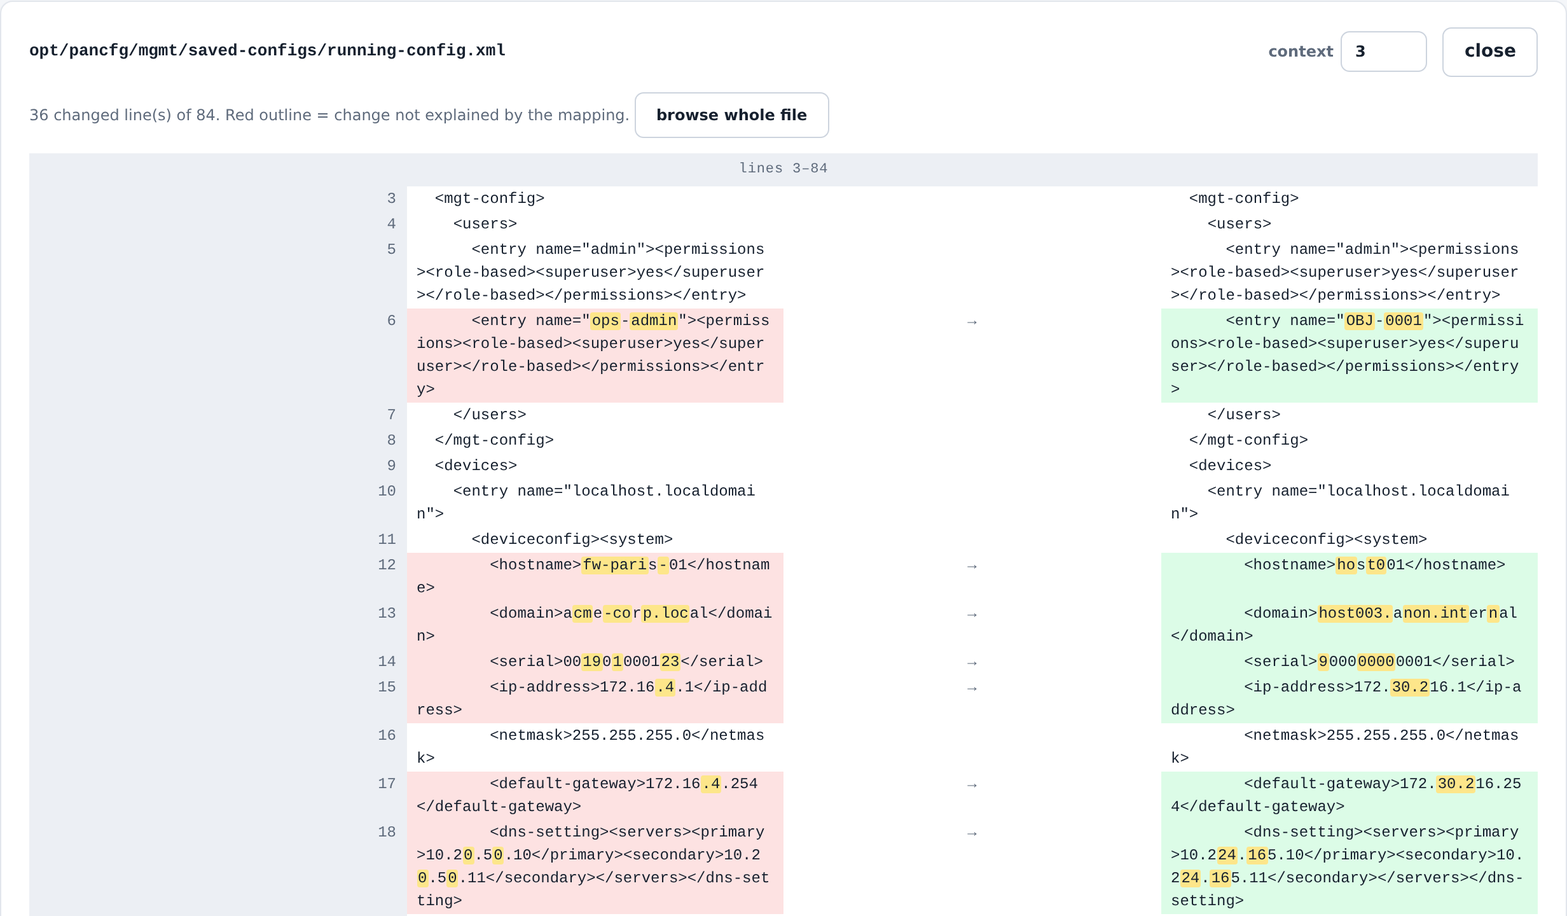
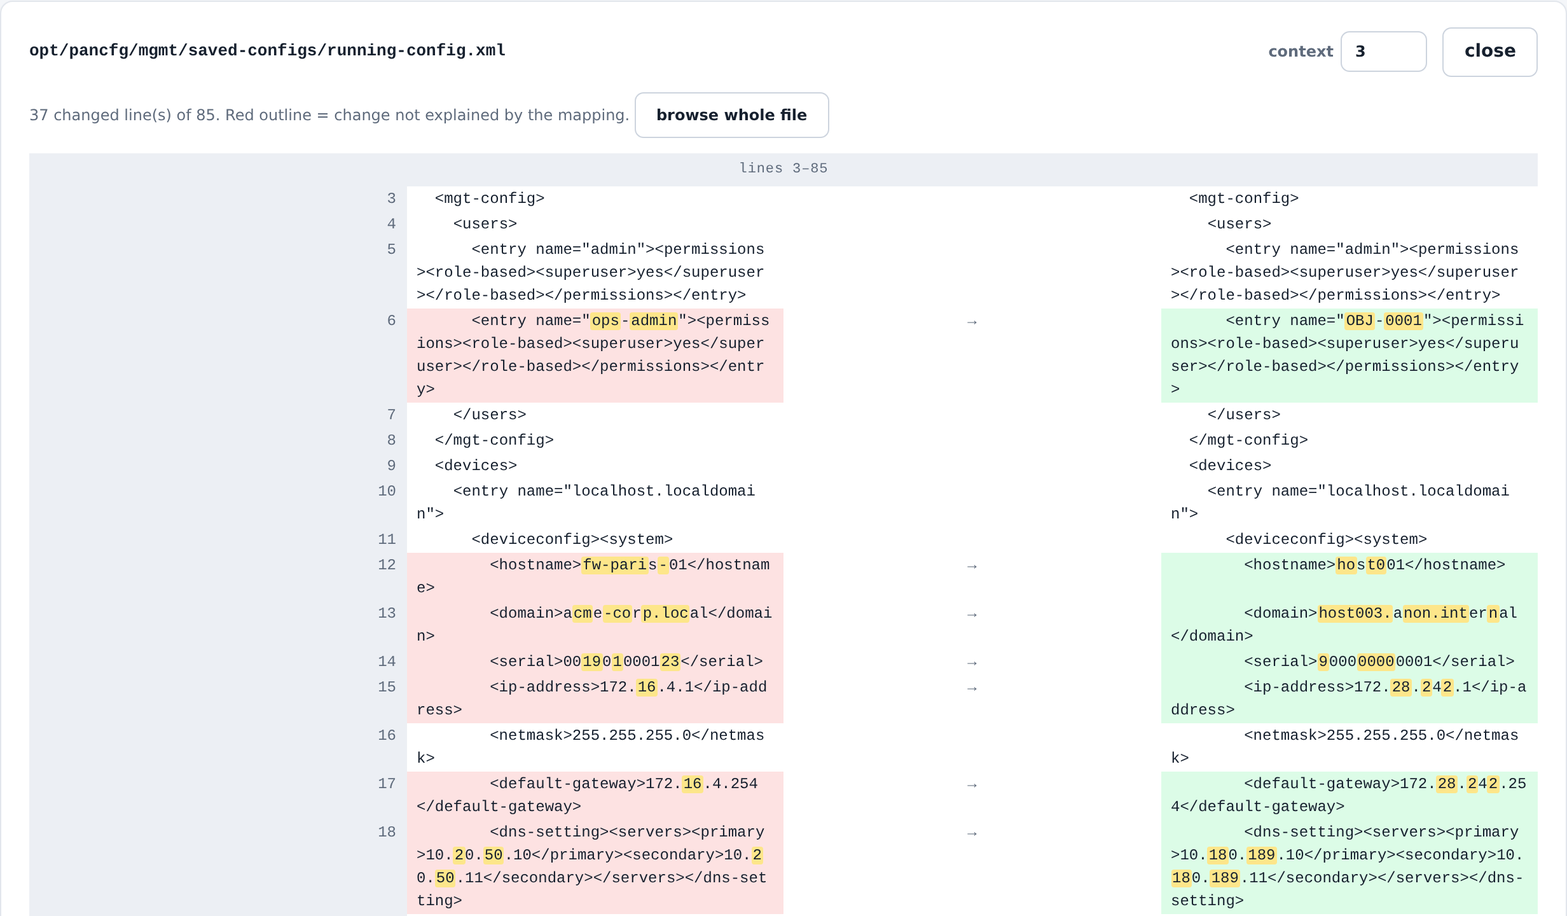
feat(core,compare): unified prefix-preserving tree over public IP space (#24)
## Why

Private (RFC 1918/CGNAT) prefix preservation was verified correct on the
real corpus; public space was not. A public IP mapped to 240/4 as a
20-bit /24 index in first-seen order plus an arbitrary per-/24 host
permutation, and the audit (2026-09-06, real corpus) measured the
consequences:

- the default route's nexthop left its own connected WAN /30 on the
anonymized copy (broken on both boxes tested) — the routing→zone story
is incoherent at the firewall edge;
- cross-/24 aggregate containment lost: 120 of 246 route-containment
relations on one box — BGP/OSPF aggregates no longer contained their
members.

## What

- **`Anonymizer._tree_fake` public branch**: one catch-all keyed-PRF
tree over 240.0.0.0/4. The real top nibble is folded into the PRF path
seed (`P<nibble>`, not kept in the output); bits 4..31 — host octet
included — are tree-flipped walking the real bits. Two reals sharing a
k-bit prefix (k ≥ 4) share the fake prefix to depth k: WAN /30 nexthops,
/16 aggregates ⊇ /24s, prefixes announced mid-log all survive; masks
never change; fakes stay in 240/4 (never a real third party).
Cross-nibble collisions are birthday-random over 28 bits (~zero at TSF
scale; naive nibble truncation measured 88/1526 systematic /24
collisions on one real box).
- **Anti-reuse probe** now skips `.0`/`.255` candidates (it once handed
a demo a host on the broadcast address).
- **Dead machinery deleted**: `_pub24`, `_pub24_next`,
[…]

diff --git a/tsf_anonymizer/core.py b/tsf_anonymizer/core.py
@@ -653,9 +653,6 @@ class Anonymizer:
         # addresses both archives happen to share.
         self.ip_seed: bytes = secrets.token_bytes(16)
         self._flip_cache: dict[str, int] = {}
-        self._pub24: dict[int, int] = {}       # real /24 (int >> 8) -> fake /24 index
-        self._pub24_next = 0
-        self._pub_perm_cache: dict[int, list[int]] = {}
 
         self._ip_re = _IP_RE
         self._user_re = _USER_PHRASE_RE
@@ -673,16 +670,6 @@ class Anonymizer:
             self._flip_cache[path] = f
         return f
 
-    def _pub_host_perm(self, p24: int) -> list[int]:
-        """Deterministic host-octet permutation for one public /24 (pure
-        function of the seed — no random module, stable across versions)."""
-        perm = self._pub_perm_cache.get(p24)
-        if perm is None:
-            perm = sorted(range(256), key=lambda v: hashlib.blake2b(
-                b"%d:%d" % (p24, v), key=self.ip_seed, digest_size=8).digest())
-            self._pub_perm_cache[p24] = perm
-        return perm
-
     def _tree_fake(self, a: int) -> str:
         """Prefix-preserving pseudonym: same real prefix -> same fake prefix,
         so subnets, route destinations (static or learned mid-log), LSDB
@@ -694,9 +681,20 @@ class Anonymizer:
         PRF per tree node (the root node is always flipped, so an address
         never maps to itself), the host octet is kept — /25…/32 relations
         are exact, /8…/24 relations survive the permutation. Every other
-        address maps into 240.0.0.0/4 (class E — never routable, never a
-        real third party): one fake /24 per real /24 in first-seen order,
-        host octet permuted per /24."""
+        address goes through one catch-all tree into 240.0.0.0/4 (class E —
+        never routable, never a real third party): the real top nibble is
+        folded into the PRF path seed (not kept in the output) and bits
+        4..31 — host octet included — are each tree-flipped walking the real
+        bits, so two reals sharing a k-bit prefix (k >= 4) share the fake
+        prefix to depth k: WAN /30 nexthops, /16 aggregates over their /24s,
+        prefixes announced mid-log by BGP/OSPF all stay coherent, and masks
+        never change. Cross-nibble reals share no prefix >= /4 (nothing to
+        preserve) and decorrelate through the path seed, so a repeated fake
+        is birthday-random over 28 bits (~zero at TSF scale; naive nibble
+        truncation measured 88/1526 systematic /24 collisions on one real
+        box) — the anti-reuse probe in anon_ip absorbs the rare rest. A fake
+        can never equal its own original: originals inside 240/4 are
+        `is_reserved` and skipped by anon_ip before reaching the tree."""
         for prefix, plen in _TREE_CLASSES:
             if a >> (32 - plen) == prefix:
                 out = prefix << (32 - plen)
@@ -707,14 +705,13 @@ class Anonymizer:
                     out |= (real ^ flip) << (31 - bit)
                     path += "01"[real]
                 return str(ipaddress.ip_address(out | (a & 0xFF)))
-        p24 = a >> 8
-        idx = self._pub24.get(p24)
-        if idx is None:
-            idx = self._pub24_next
-            self._pub24[p24] = idx
-            self._pub24_next += 1
-        host = self._pub_host_perm(p24)[a & 0xFF]
-        return str(ipaddress.ip_address(0xF0000000 | ((idx & 0x000F_FFFF) << 8) | host))
+        out = 0xF000_0000
+        path = f"P{a >> 28}"
+        for bit in range(4, 32):
+            real = (a >> (31 - bit)) & 1
+            out |= (real ^ self._flip(path)) << (31 - bit)
+            path += "01"[real]
+        return str(ipaddress.ip_address(out))
 
     # Last-resort sequential generators — used only when the prefix tree's
     # /24 probe finds no free host (see anon_ip); injective by construction.
@@ -769,7 +766,12 @@ class Anonymizer:
             if fake in self.ip_map or fake in self._fakes:
                 base = int(ipaddress.ip_address(fake))
                 for step in range(1, 256):
-                    cand = str(ipaddress.ip_address((base & ~0xFF) | ((base + step) & 0xFF)))
+                    host = (base + step) & 0xFF
+                    if host in (0, 255):
+                        # never hand out .0/.255: a probed host on the
+                        # network/broadcast address reads as nonsense
+                        continue
+                    cand = str(ipaddress.ip_address((base & ~0xFF) | host))
                     if cand not in self.ip_map and cand not in self._fakes:
                         fake = cand
                         break
@@ -1261,18 +1263,12 @@ class Anonymizer:
                 anon.ip_seed = bytes.fromhex(seed)
             except ValueError:
                 pass  # unusable seed: keep the fresh one, pairs still apply
-        # Rebuild the public /24 allocation from the pairs so a new address
-        # in a known real /24 lands in the same fake /24.
-        for orig, fake in anon.ip_map.items():
-            try:
-                fi = int(ipaddress.ip_address(fake))
-                oi = int(ipaddress.ip_address(orig))
-            except ValueError:
-                continue
-            if fi >> 28 == 0xF:
-                idx = (fi >> 8) & 0x000F_FFFF
-                anon._pub24.setdefault(oi >> 8, idx)
-                anon._pub24_next = max(anon._pub24_next, idx + 1)
+        # Explicit pairs stay authoritative (anon_ip consults ip_map first);
+        # a *new* public address is allocated by the catch-all tree, which
+        # only needs `ip_seed` — same seed, same fake prefix, so it lands in
+        # the fake subnet its known neighbours got. A mapping written by the
+        # old per-/24 scheme keeps its pairs verbatim; only new allocations
+        # use the tree (the anti-reuse probe keeps the union injective).
         anon._priv_counter = sum(1 for v in anon.ip_map.values() if v.startswith("100."))
         anon._pub_counter = len(anon.ip_map) - anon._priv_counter
         anon._user_counter = len(anon.user_map)

diff --git a/tests/test_core.py b/tests/test_core.py
@@ -530,6 +530,61 @@ class TestRealTsfLessons:
             by24.setdefault(ip.rsplit(".", 1)[0], set()).add(f.rsplit(".", 1)[0])
         assert all(len(s) == 1 for s in by24.values())
 
+    def test_public_fakes_preserve_shared_prefixes_at_every_depth(self, anon):
+        # Audit lesson (real corpus, 2026-09): per-/24 grouping with a host
+        # permutation broke the default route's nexthop out of its connected
+        # WAN /30 and lost 120 of 246 cross-/24 aggregate containments on one
+        # box. The catch-all tree preserves every same-nibble relation /4../32.
+        import ipaddress
+        def shared(x: str, y: str) -> int:
+            d = (int(ipaddress.ip_address(anon.anon_ip(x)))
+                 ^ int(ipaddress.ip_address(anon.anon_ip(y))))
+            return 32 - d.bit_length()
+        assert shared("203.0.113.129", "203.0.113.130") >= 30  # WAN /30 intra-host
+        assert shared("198.18.100.7", "198.18.0.0") >= 16      # /16 aggregate ⊇ /24
+        assert shared("198.18.1.2", "198.19.200.9") >= 15      # high in the tree too
+        assert anon.anon_ip("203.0.113.129") != anon.anon_ip("203.0.113.130")
+
+    def test_public_aggregate_still_contains_its_members(self, anon):
+        # The relation check_routing_coherence re-derives: a /16 RIB row must
+        # still contain its observed /24 rows and the nexthop on the copy.
+        import ipaddress
+        agg = ipaddress.ip_network(anon.anon_ip("198.18.0.0") + "/16", strict=False)
+        member = ipaddress.ip_network(anon.anon_ip("198.18.44.0") + "/24", strict=False)
+        assert member.subnet_of(agg)
+        assert ipaddress.ip_address(anon.anon_ip("198.18.7.9")) in agg
+
+    def test_different_top_nibbles_decorrelate(self, anon):
+        # Naive nibble truncation measured 88/1526 systematic /24 collisions
+        # on one real box; with the nibble folded into the PRF path seed,
+        # same-tail reals from different nibbles land in unrelated fakes.
+        fakes = [anon.anon_ip(f"{a}.77.66.55")
+                 for a in (1, 25, 42, 60, 77, 99, 130, 150, 170, 199, 210)]
+        assert len(set(fakes)) == len(fakes)
+        assert len({f.rsplit(".", 1)[0] for f in fakes}) == len(fakes)
+
+    def test_mixed_fakes_are_injective_at_a_few_thousand_ips(self, anon):
+        ips = [f"10.20.{(i >> 8) & 255}.{i & 255}" for i in range(1, 1200)]
+        ips += [f"{o}.{(i >> 4) & 255}.{i & 255}.{(i * 7) % 256}"
+                for o in (8, 23, 44, 61, 77, 91, 104, 121, 130, 147, 166, 181, 198, 203)
+                for i in range(200)]
+        uniq = list(dict.fromkeys(ips))
+        fakes = [anon.anon_ip(ip) for ip in uniq]
+        assert len(set(fakes)) == len(fakes) == len(uniq)
+
+    def test_probe_never_hands_out_network_or_broadcast_hosts(self, anon):
+        # The anti-reuse probe once handed out a .255 in a demo — a host on
+        # the broadcast address. It now skips .0 and .255 candidates.
+        import ipaddress
+        taken = anon._tree_fake(int(ipaddress.ip_address("8.8.8.8")))
+        base = int(ipaddress.ip_address(taken)) & ~0xFF
+        # every host of the fake /24 is taken except .0, .255 and .37
+        # (the tree fake itself included: its host octet can be anything)
+        anon._fakes.add(taken)
+        anon._fakes.update(str(ipaddress.ip_address(base | h))
+                           for h in range(1, 255) if h != 37)
+        assert anon.anon_ip("8.8.8.8") == str(ipaddress.ip_address(base | 37))
+
     def test_route_destination_still_contains_its_hosts(self, anon):
         import ipaddress
         out = anon.anonymize_text("route 10.20.0.0/16 nexthop 10.20.0.1 host 10.20.5.9")

diff --git a/tsf_anonymizer/mock.py b/tsf_anonymizer/mock.py
@@ -84,12 +84,13 @@ _CONFIG = """<?xml version="1.0"?>
         <interface><ethernet>
           <entry name="ethernet1/1"><layer3><ip><entry name="10.20.30.1/24"/></ip></layer3></entry>
           <entry name="ethernet1/2"><layer3><ip><entry name="10.20.40.1/24"/></ip></layer3></entry>
+          <entry name="ethernet1/3"><layer3><ip><entry name="198.18.100.1/30"/></ip></layer3></entry>
         </ethernet></interface>
         <virtual-router>
           <entry name="VR-Main">
-            <interface><member>ethernet1/1</member><member>ethernet1/2</member></interface>
+            <interface><member>ethernet1/1</member><member>ethernet1/2</member><member>ethernet1/3</member></interface>
             <routing-table><ip><static-route>
-              <entry name="SR-Default"><destination>0.0.0.0/0</destination><nexthop><ip-address>10.20.30.254</ip-address></nexthop><interface>ethernet1/1</interface><metric>10</metric></entry>
+              <entry name="SR-Default"><destination>0.0.0.0/0</destination><nexthop><ip-address>198.18.100.2</ip-address></nexthop><interface>ethernet1/3</interface><metric>10</metric></entry>
               <entry name="SR-Branch-Lyon"><destination>10.99.0.0/16</destination><nexthop><ip-address>10.20.40.254</ip-address></nexthop><interface>ethernet1/2</interface><metric>10</metric></entry>
             </static-route></ip></routing-table>
           </entry>
@@ -144,14 +145,18 @@ uptime: 42 days, 3:17:09
 name                    id    speed/duplex/state        mac address
 ethernet1/1             16    1000/full/up              00:1b:17:00:00:10
 ethernet1/2             17    1000/full/up              00:1b:17:00:00:11
+ethernet1/3             18    1000/full/up              00:1b:17:00:00:12
 > show routing route
 flags: A:active, C:connect, S:static, O:ospf, B:bgp, Oi:ospf intra-area
 destination        nexthop            metric flags     age   interface
-0.0.0.0/0          10.20.30.254       10     A S             ethernet1/1
+0.0.0.0/0          198.18.100.2       10     A S             ethernet1/3
 10.20.30.0/24      10.20.30.1         0      A C             ethernet1/1
 10.20.40.0/24      10.20.40.1         0      A C             ethernet1/2
 10.99.5.0/24       10.20.40.77        30     A Oi      2036  ethernet1/2
+198.18.0.0/16      198.18.100.2       20     A B       412   ethernet1/3
 198.18.9.0/24      198.18.7.7         20     A B       387   ethernet1/1
+198.18.44.0/24     198.18.100.2       20     A B       401   ethernet1/3
+198.18.100.0/30    198.18.100.1       0      A C             ethernet1/3
 > show advanced-routing route
 Logical Router: LR-Edge
 flags: A:active, E:ecmp

diff --git a/tsf_anonymizer/compare.py b/tsf_anonymizer/compare.py
@@ -716,9 +716,11 @@ _PRESERVED_SPACES = tuple(ipaddress.ip_network(c) for c in (
 
 
 def _in_preserved(net) -> bool:
-    """Prefix preservation is guaranteed for RFC 1918/CGNAT only; public
-    space keeps /24 grouping but not aggregation (documented). A relation is
-    load-bearing for the check iff every network involved is private."""
+    """Prefix preservation is *guaranteed* for RFC 1918/CGNAT only: a
+    relation is a hard error iff every network involved is private. Public
+    space is prefix-preserved too (same-nibble relations to any depth), but
+    the rare anti-reuse probe or generator fallback may move one address —
+    a public divergence is counted and shown, never an error."""
     return net.version == 4 and any(net.subnet_of(p) for p in _PRESERVED_SPACES)
 
 
@@ -857,9 +859,11 @@ def check_routing_coherence(orig_dir: Path, anon_dir: Path) -> dict:
             if bad:
                 mismatches.append(f"{bad} {label} relation(s) hold on one side only")
     out["mismatches"] = mismatches
-    # Public aggregation (anything beyond the per-/24 grouping) is the
-    # documented trade of mapping public space into 240/4: counted, shown,
-    # but not an error — private structure is the guarantee.
+    # Public relations are preserved by the catch-all tree too, so this is
+    # expected to be ~0; what remains is the rare anti-reuse probe or
+    # generator fallback moving one address — counted, shown, but not an
+    # error, so a rarity never reddens a real compare. Private structure
+    # stays the hard guarantee.
     out["public_divergences"] = public
     out["ok"] = not mismatches
     return out

diff --git a/tests/test_compare.py b/tests/test_compare.py
@@ -285,7 +285,11 @@ class TestRoutingCoherence:
         work, mapping = trees
         r = compare_trees(work / "orig", work / "anon", mapping).summary["routing"]
         assert r["checked"] and r["ok"]
-        assert r["routes"] >= 5 and r["connected"] >= 2
+        assert r["routes"] >= 8 and r["connected"] >= 3
+        # The catch-all public tree preserves the WAN /30 nexthop and the
+        # /16 aggregate over its /24s: zero public divergences expected —
+        # only the rare anti-reuse probe / generator fallback could count.
+        assert r["public_divergences"] == 0
 
     def test_a_nexthop_moved_out_of_its_subnet_is_reported(self, trees):
         work, mapping = trees

diff --git a/.claude/rules/anonymizer-invariants.md b/.claude/rules/anonymizer-invariants.md
@@ -164,22 +164,43 @@ test in `tests/` and a line under *Unreleased* in CHANGELOG.md.
   (`ip_seed` rides in the sidecar). RFC 1918/CGNAT addresses stay in their
   own class with the host octet kept (root tree node always flipped: an
   address never maps to itself — 45 identity mappings appeared on the
-  corpus before that rule); everything else maps into 240.0.0.0/4, one fake
-  /24 per real /24. The trade: a private fake can equal an address the
-  customer also uses elsewhere (0.12 % measured on 196 730 corpus IPs) —
-  reported by the compare as a *collision*, and collision keys are still
-  **applied** by `MappingIndex.apply` (the anonymizer did rewrite them);
-  they are only excluded from the leak scan, where the same string is
-  somebody's pseudonym. Dropping them from `forward`, the first design,
-  made every occurrence of such a key an "unexplained" line.
-- **The routing check trusts private relations only, and reads the right
-  config.** Public space keeps /24 grouping, not aggregation — a public /16
-  ⊃ /24 relation is a counted *divergence*, never an error, or every real
-  compare is red with the documented trade. `.merged-running-config.xml`
-  wins over `running-config.xml` (a Panorama-managed PA-5410 ships an empty
-  `<interface>` section — 0 connected networks found), and C-flagged RIB
-  rows are connected networks too. Containment is compared as per-network
-  ancestor sets, not O(n²) pairs — a real RIB has 6 903 rows.
+  corpus before that rule). Everything else goes through one catch-all tree
+  into 240.0.0.0/4: the real top nibble is folded into the PRF *path seed*
+  (`P<nibble>`, not kept in the output) and bits 4..31 — host octet
+  included — are tree-flipped walking the real bits, so two reals sharing a
+  k-bit prefix (k ≥ 4) share the fake prefix to depth k. The previous
+  scheme (one fake /24 per real /24 in first-seen order, host octet
+  permuted per /24) broke every intra-/24 and cross-/24 public relation on
+  real archives: the default route's nexthop left its own connected WAN /30
+  on both boxes measured, and 120 of 246 route-containment relations
+  (BGP/OSPF aggregates ⊇ members) were lost on one. Cross-nibble reals
+  share no prefix ≥ /4, so there is nothing to preserve there — the nibble
+  in the path makes their fakes birthday-random over 28 bits (~zero
+  collisions at TSF scale; naive nibble *truncation* measured 88/1526
+  systematic /24 collisions on one real box), and the anti-reuse probe in
+  `anon_ip` absorbs the rare rest — probed candidates skip host octets 0
+  and 255 (it once handed a demo a host on the broadcast address). A fake
+  can never equal its own original: originals inside 240/4 are
+  `is_reserved` and skipped by `anon_ip`. The trade that remains: a private
+  fake can equal an address the customer also uses elsewhere (0.12 %
+  measured on 196 730 corpus IPs) — reported by the compare as a
+  *collision*, and collision keys are still **applied** by
+  `MappingIndex.apply` (the anonymizer did rewrite them); they are only
+  excluded from the leak scan, where the same string is somebody's
+  pseudonym. Dropping them from `forward`, the first design, made every
+  occurrence of such a key an "unexplained" line.
+- **The routing check errors on private relations only, and reads the right
+  config.** Public relations are preserved by the catch-all tree too, so
+  `public_divergences` is expected ≈ 0 — but a public divergence stays a
+  counted number, never a hard error: what remains of it is the rare
+  anti-reuse probe or generator fallback moving one address, and a rarity
+  must not redden a real compare (measured after the tree landed: 0 / 0 / 0
+  divergences on three real trees that showed 101 / 5 / 0 under the /24
+  grouping). `.merged-running-config.xml` wins over `running-config.xml`
+  (a Panorama-managed PA-5410 ships an empty `<interface>` section — 0
+  connected networks found), and C-flagged RIB rows are connected networks
+  too. Containment is compared as per-network ancestor sets, not O(n²)
+  pairs — a real RIB has 6 903 rows.
 - **The compare checks routing coherence structurally.** `_routing_view`
   re-derives from each tree alone (config layer3 networks, static routes,
   both RIB formats) the relations the prefix tree exists to preserve, and

diff --git a/docs/architecture.md b/docs/architecture.md
@@ -87,7 +87,7 @@ members through the same frozen tables, file names only, never directories.
 | class | original | pseudonym | shaped so that |
 |---|---|---|---|
 | private IPv4 | `10.1.2.3` | `10.x.y.3` | same class + host octet kept: prefix-preserving (keyed PRF tree, `ip_seed` in the sidecar), so subnets and routes stay coherent |
-| public IPv4 | `8.8.8.8` | `240.x.y.z` | class E — never routable, never a real third party; one fake /24 per real /24 |
+| public IPv4 | `8.8.8.8` | `240.x.y.z` | class E — never routable, never a real third party; same keyed PRF tree (top nibble folded into the path seed), so same real prefix → same fake prefix, /4 to /32 |
 | FQDN / hostname | `fw01.acme.local` | `host007.anon.internal` | parent domains registered down to the apex |
 | e-mail | `j.dupont@acme.fr` | `user003@host002.anon.internal` | |
 | named object | `Zone-Prod-DMZ` | `ZONE-0012` | category prefix kept, so the config still reads |
@@ -114,8 +114,11 @@ routes + both RIB formats of the techsupport txt);
 nexthop ∈ connected subnet, route ⊆ route (compared as ancestor sets, not
 O(n²) pairs), connected ⊆ route, prefix lengths — to hold on the
 anonymized side iff it holds on the original; public-involved divergences
-are counted separately (`public_divergences`), the documented trade of the
-per-/24 public grouping. No mapping involved: this is the check that
+are counted separately (`public_divergences`). The catch-all public tree
+preserves those relations too, so the count is expected ≈ 0 — what remains
+is the rare anti-reuse probe or generator fallback moving one address,
+counted rather than erroring so a rarity never reddens a real compare. No
+mapping involved: this is the check that
 fails if prefix preservation ever regresses, which per-line explanation
 cannot see — on its first real run it caught a genuine leak (an original
 equal to a handed-out pseudonym, skipped in clear). Summary key `routing`,

diff --git a/CHANGELOG.md b/CHANGELOG.md
@@ -7,6 +7,25 @@ change what is mapped, a patch bump only fixes).
 
 ## [Unreleased]
 
+### Changed
+- Public IPv4 pseudonyms now come from the same keyed-PRF prefix tree as
+  private ones: one catch-all tree over 240.0.0.0/4, with the real top
+  nibble folded into the PRF path seed and every bit down to the host octet
+  tree-flipped. Two real addresses sharing a k-bit prefix (k ≥ 4) share the
+  fake prefix to depth k, so public routing relations survive on the copy —
+  the default route's nexthop stays inside its connected WAN /30, BGP/OSPF
+  aggregates still contain their members (120 of 246 containment relations
+  were lost on one real box under the previous per-/24 grouping), and
+  prefixes announced mid-log stay coherent; masks never change. The
+  compare's `public_divergences` count is now expected ≈ 0 (measured
+  0 / 0 / 0 on three real trees that showed 101 / 5 / 0 before); it stays a
+  counted number, never a hard error. The anti-reuse probe no longer hands
+  out `.0`/`.255` host octets. Minor-worthy: this changes what public
+  pseudonyms look like, not what is mapped — a mapping sidecar written by
+  the old scheme keeps its explicit pairs verbatim when seeding a new run
+  (`Anonymizer.from_mapping`), only *new* allocations use the tree, and
+  `ip_seed` rides the sidecar unchanged.
+
 ## [0.4.0] - 2026-09-06
 
 ### Changed

diff --git a/README.md b/README.md
@@ -318,9 +318,10 @@ as invariants in [.claude/rules/anonymizer-invariants.md](.claude/rules/anonymiz
   route containing another route or a connected network, every prefix
   length — holds on the anonymized tree *iff* it holds on the original.
   Any injective mapping explains every line; only a prefix-preserving one
-  keeps these relations. Divergences involving public space (aggregation
-  beyond the per-/24 grouping) are counted and shown, not errors — that is
-  the documented trade of mapping public addresses into 240/4.
+  keeps these relations. Public space is prefix-preserved too (one keyed
+  tree over 240/4), so divergences involving public networks are expected
+  near zero; they stay counted and shown rather than errors — the rare
+  anti-collision fallback moving one address must not fail a real compare.
 - **The compare mode only knows the mapping.** It proves every change is
   mapping-driven and that no mapped value survives; it cannot know that a
   string it never mapped is the customer's name. A raw `grep` of the
